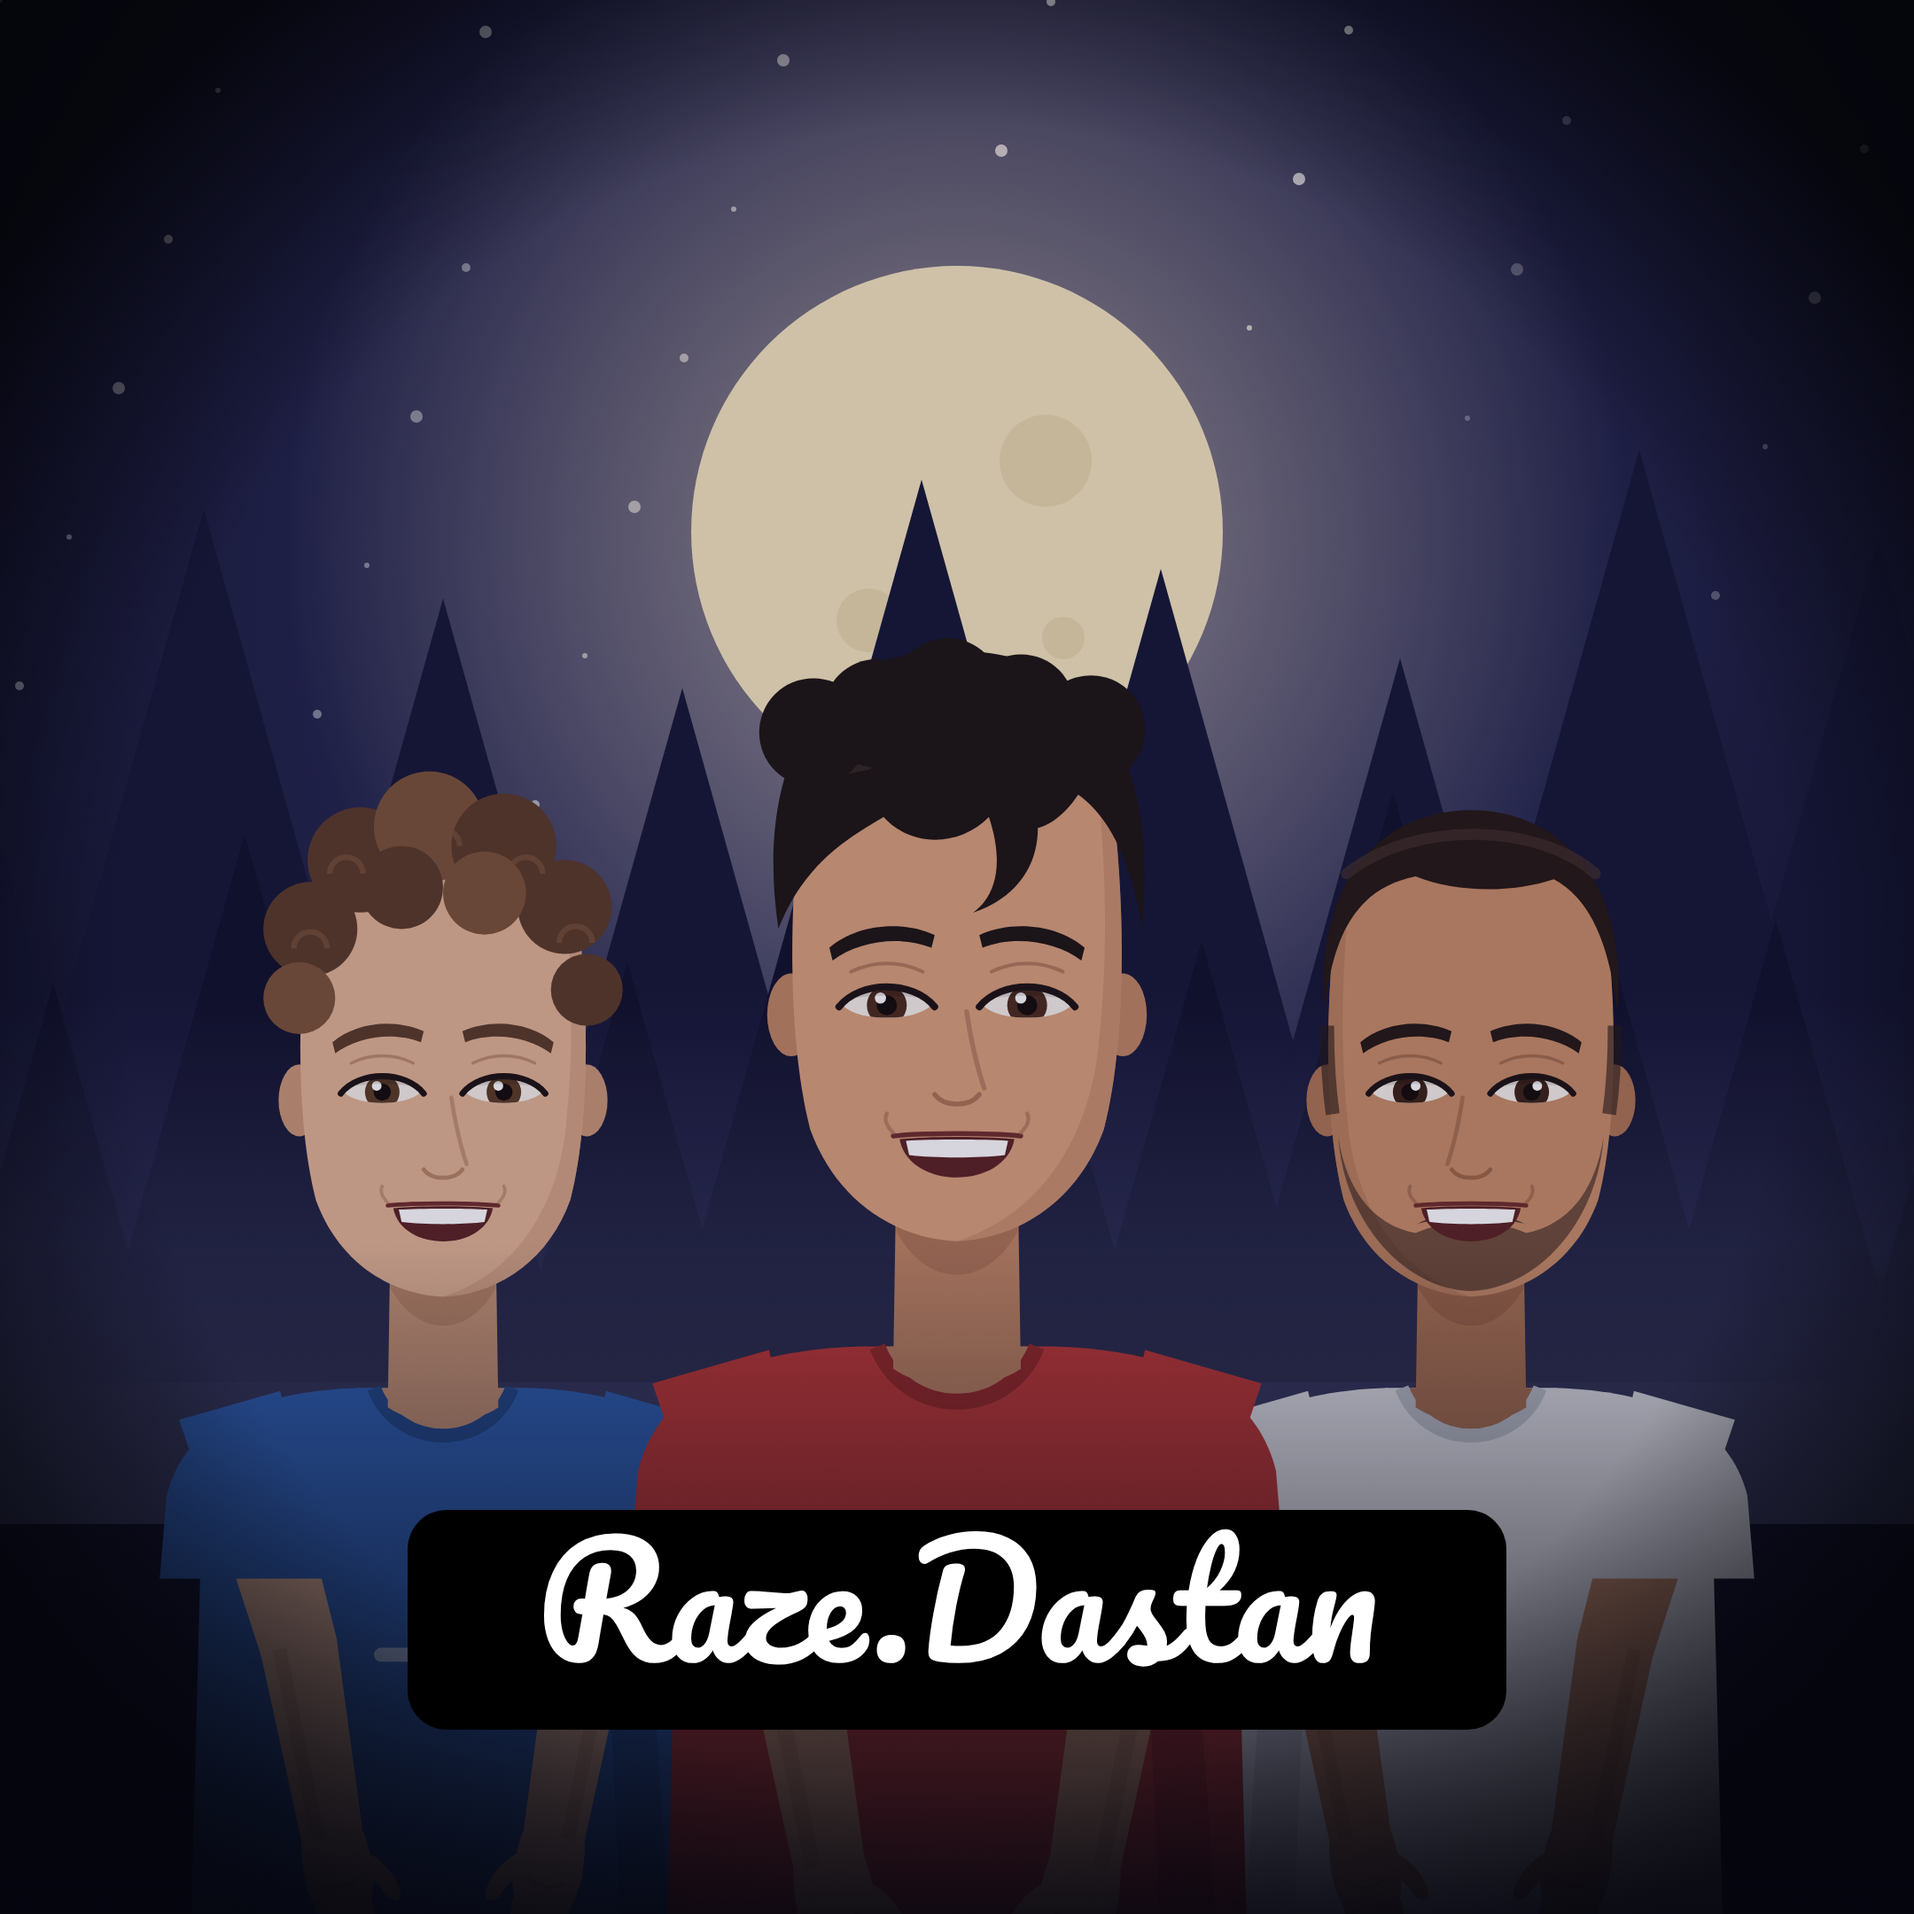
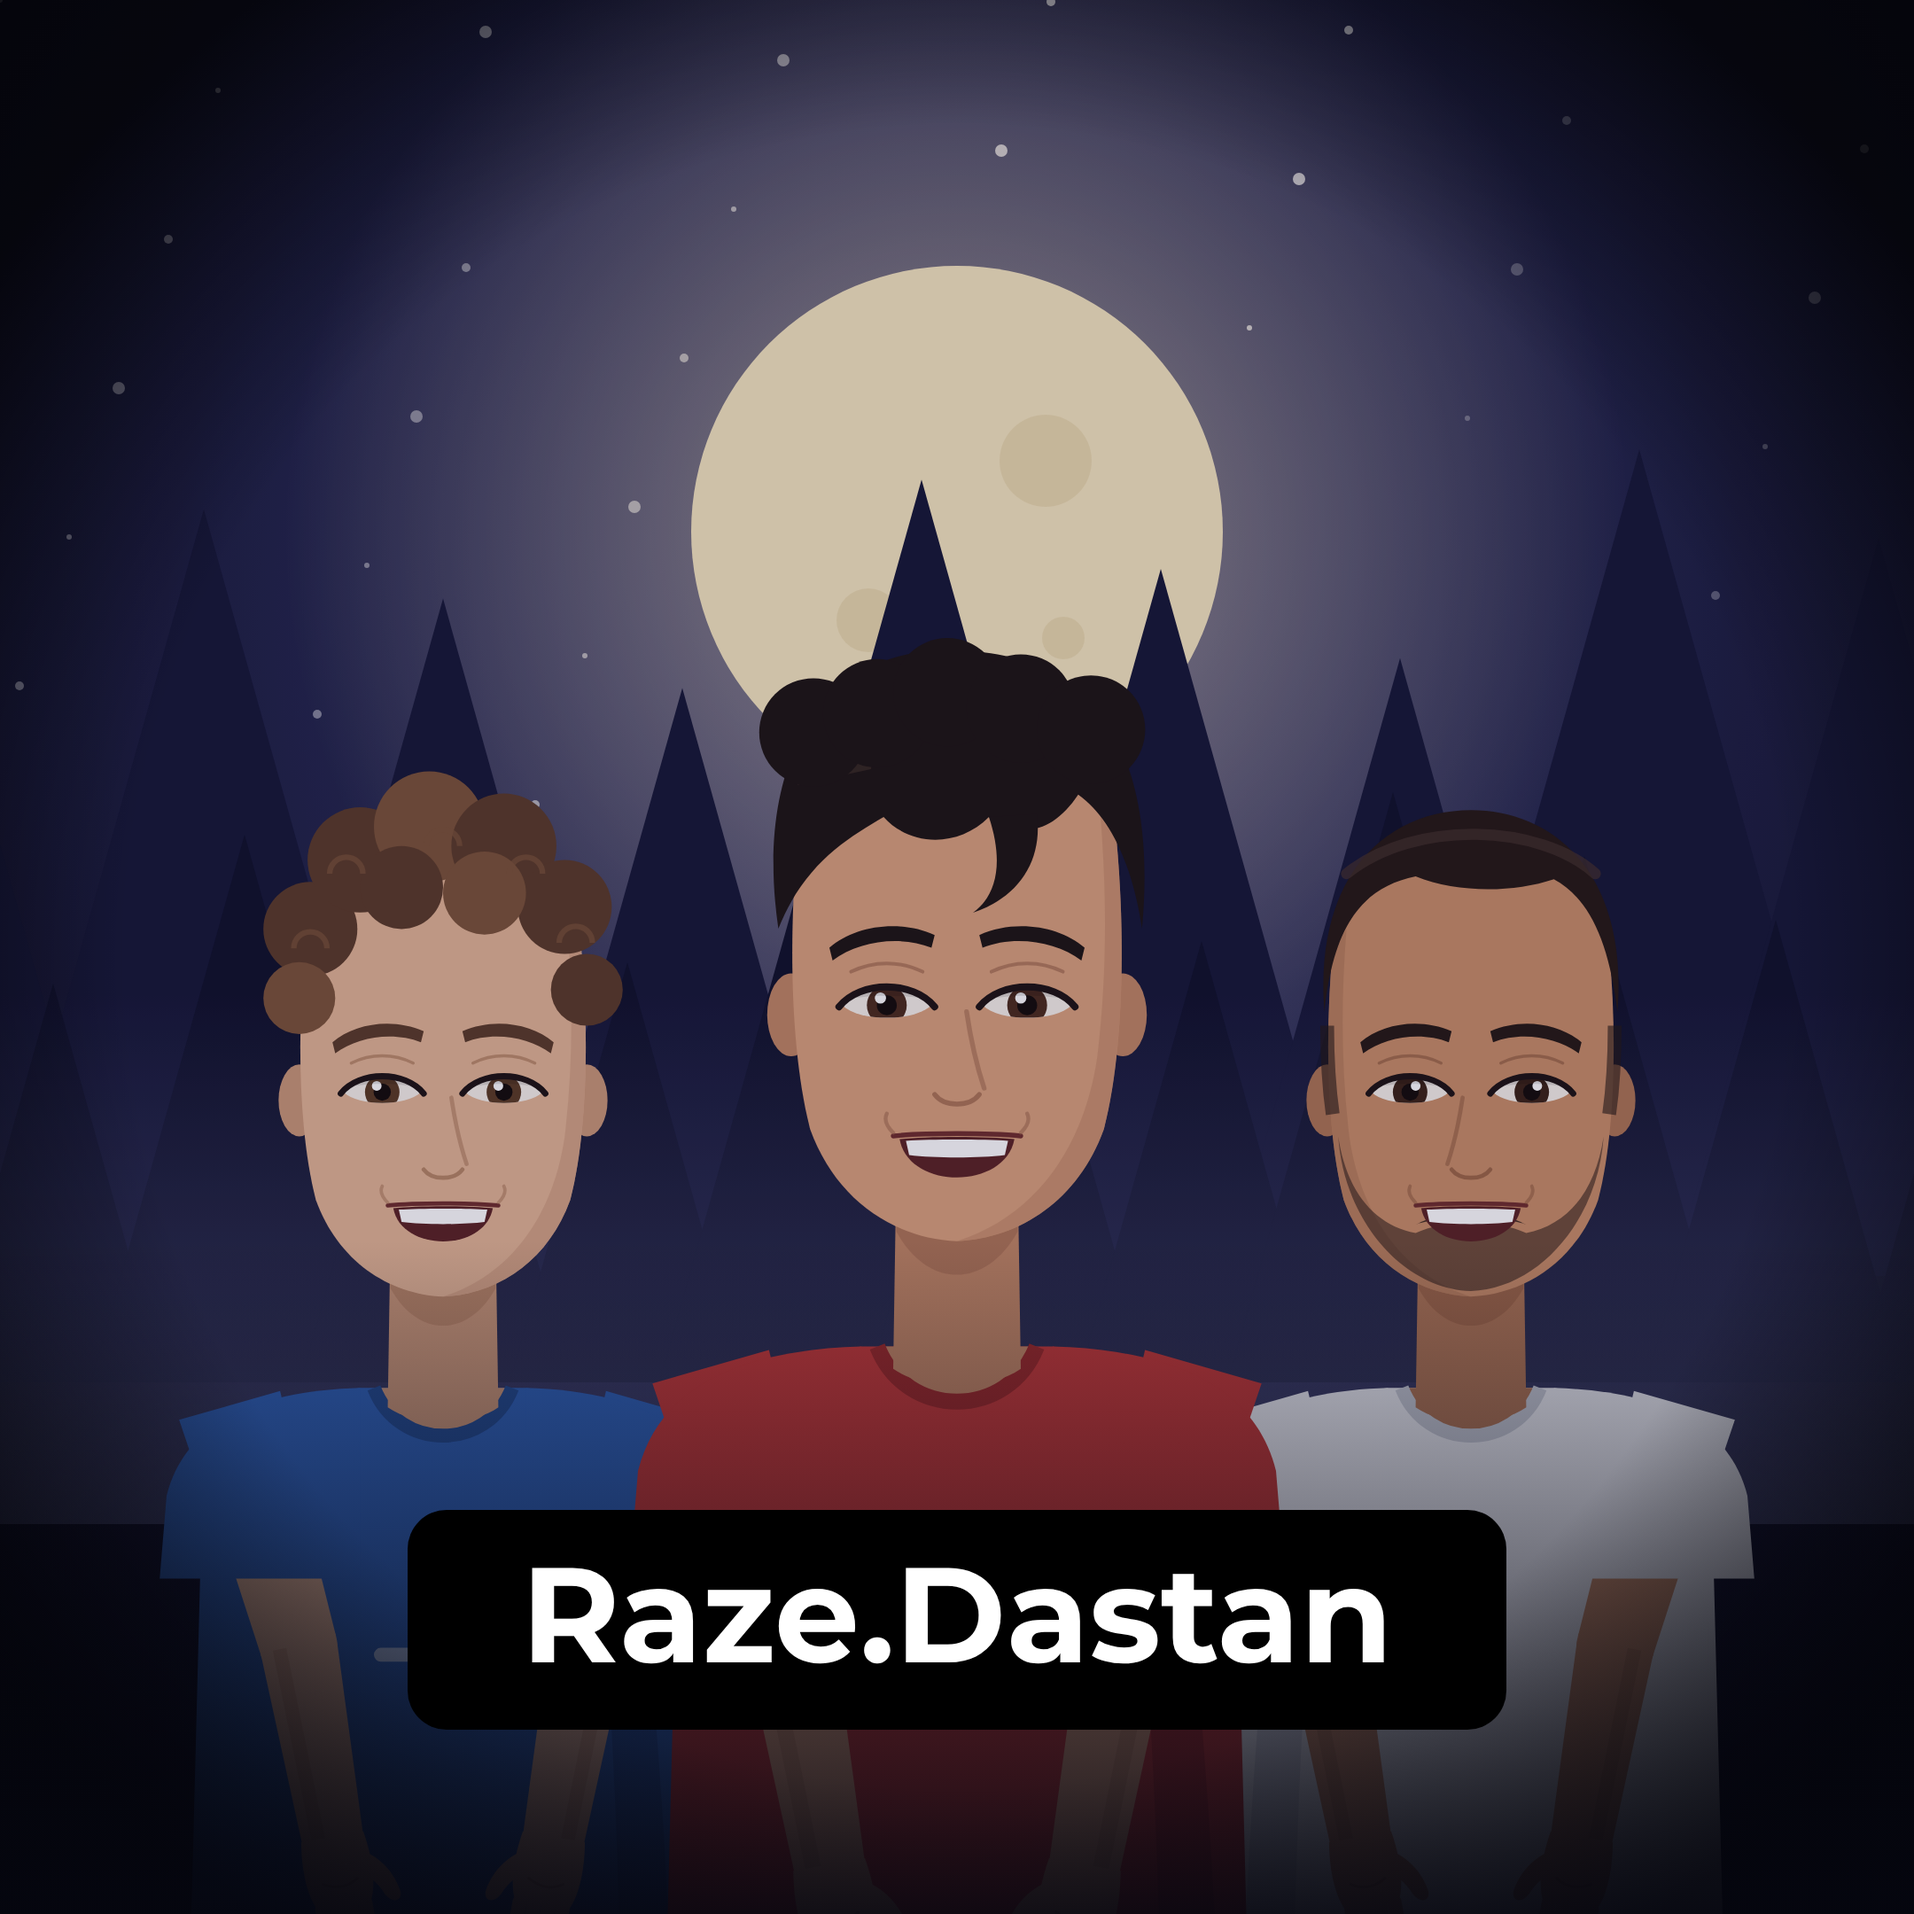
Raze.Dastan profile: plain sans-serif name
Claude-Session: https://claude.ai/code/session_018hMAn5DChMvQUs3Ho2zBUk

Changed region(s): [[0.2792, 0.7755, 0.7444, 0.8685]]

diff --git a/hyperframes/profile/profile.html b/hyperframes/profile/profile.html
@@ -1,4 +1,4 @@
-<!doctype html><html><head><meta charset="utf-8"><link href="https://fonts.googleapis.com/css2?family=Pacifico&display=block" rel="stylesheet"><style>html,body{margin:0;background:#000}</style></head><body><svg xmlns="http://www.w3.org/2000/svg" viewBox="0 0 1080 1080" width="1080" height="1080">
+<!doctype html><html><head><meta charset="utf-8"><link href="https://fonts.googleapis.com/css2?family=Montserrat:wght@700&display=block" rel="stylesheet"><style>html,body{margin:0;background:#000}</style></head><body><svg xmlns="http://www.w3.org/2000/svg" viewBox="0 0 1080 1080" width="1080" height="1080">
 <defs>
   <radialGradient id="sky" cx="50%" cy="32%" r="75%"><stop offset="0" stop-color="#3a3f7a"/><stop offset="0.55" stop-color="#1b1d3e"/><stop offset="1" stop-color="#0a0b1a"/></radialGradient>
   <radialGradient id="moonGlow" cx="540" cy="300" r="380" gradientUnits="userSpaceOnUse"><stop offset="0" stop-color="#ffe9b0" stop-opacity="0.55"/><stop offset="1" stop-color="#ffe9b0" stop-opacity="0"/></radialGradient>
@@ -293,5 +293,5 @@
 <rect y="700" width="1080" height="380" fill="url(#shade)"/>
 <defs><filter id="sh" x="-20%" y="-50%" width="140%" height="200%"><feDropShadow dx="0" dy="6" stdDeviation="8" flood-color="#000" flood-opacity="0.85"/></filter></defs>
 <rect x="230" y="852" width="620" height="124" rx="22" fill="#000"/>
-<text x="540" y="938" font-family="'Pacifico'" font-size="86" fill="#fff" text-anchor="middle">Raze.Dastan</text>
+<text x="540" y="938" font-family="'Montserrat', sans-serif" font-weight="700" font-size="76" fill="#fff" text-anchor="middle">Raze.Dastan</text>
 </svg></body></html>
